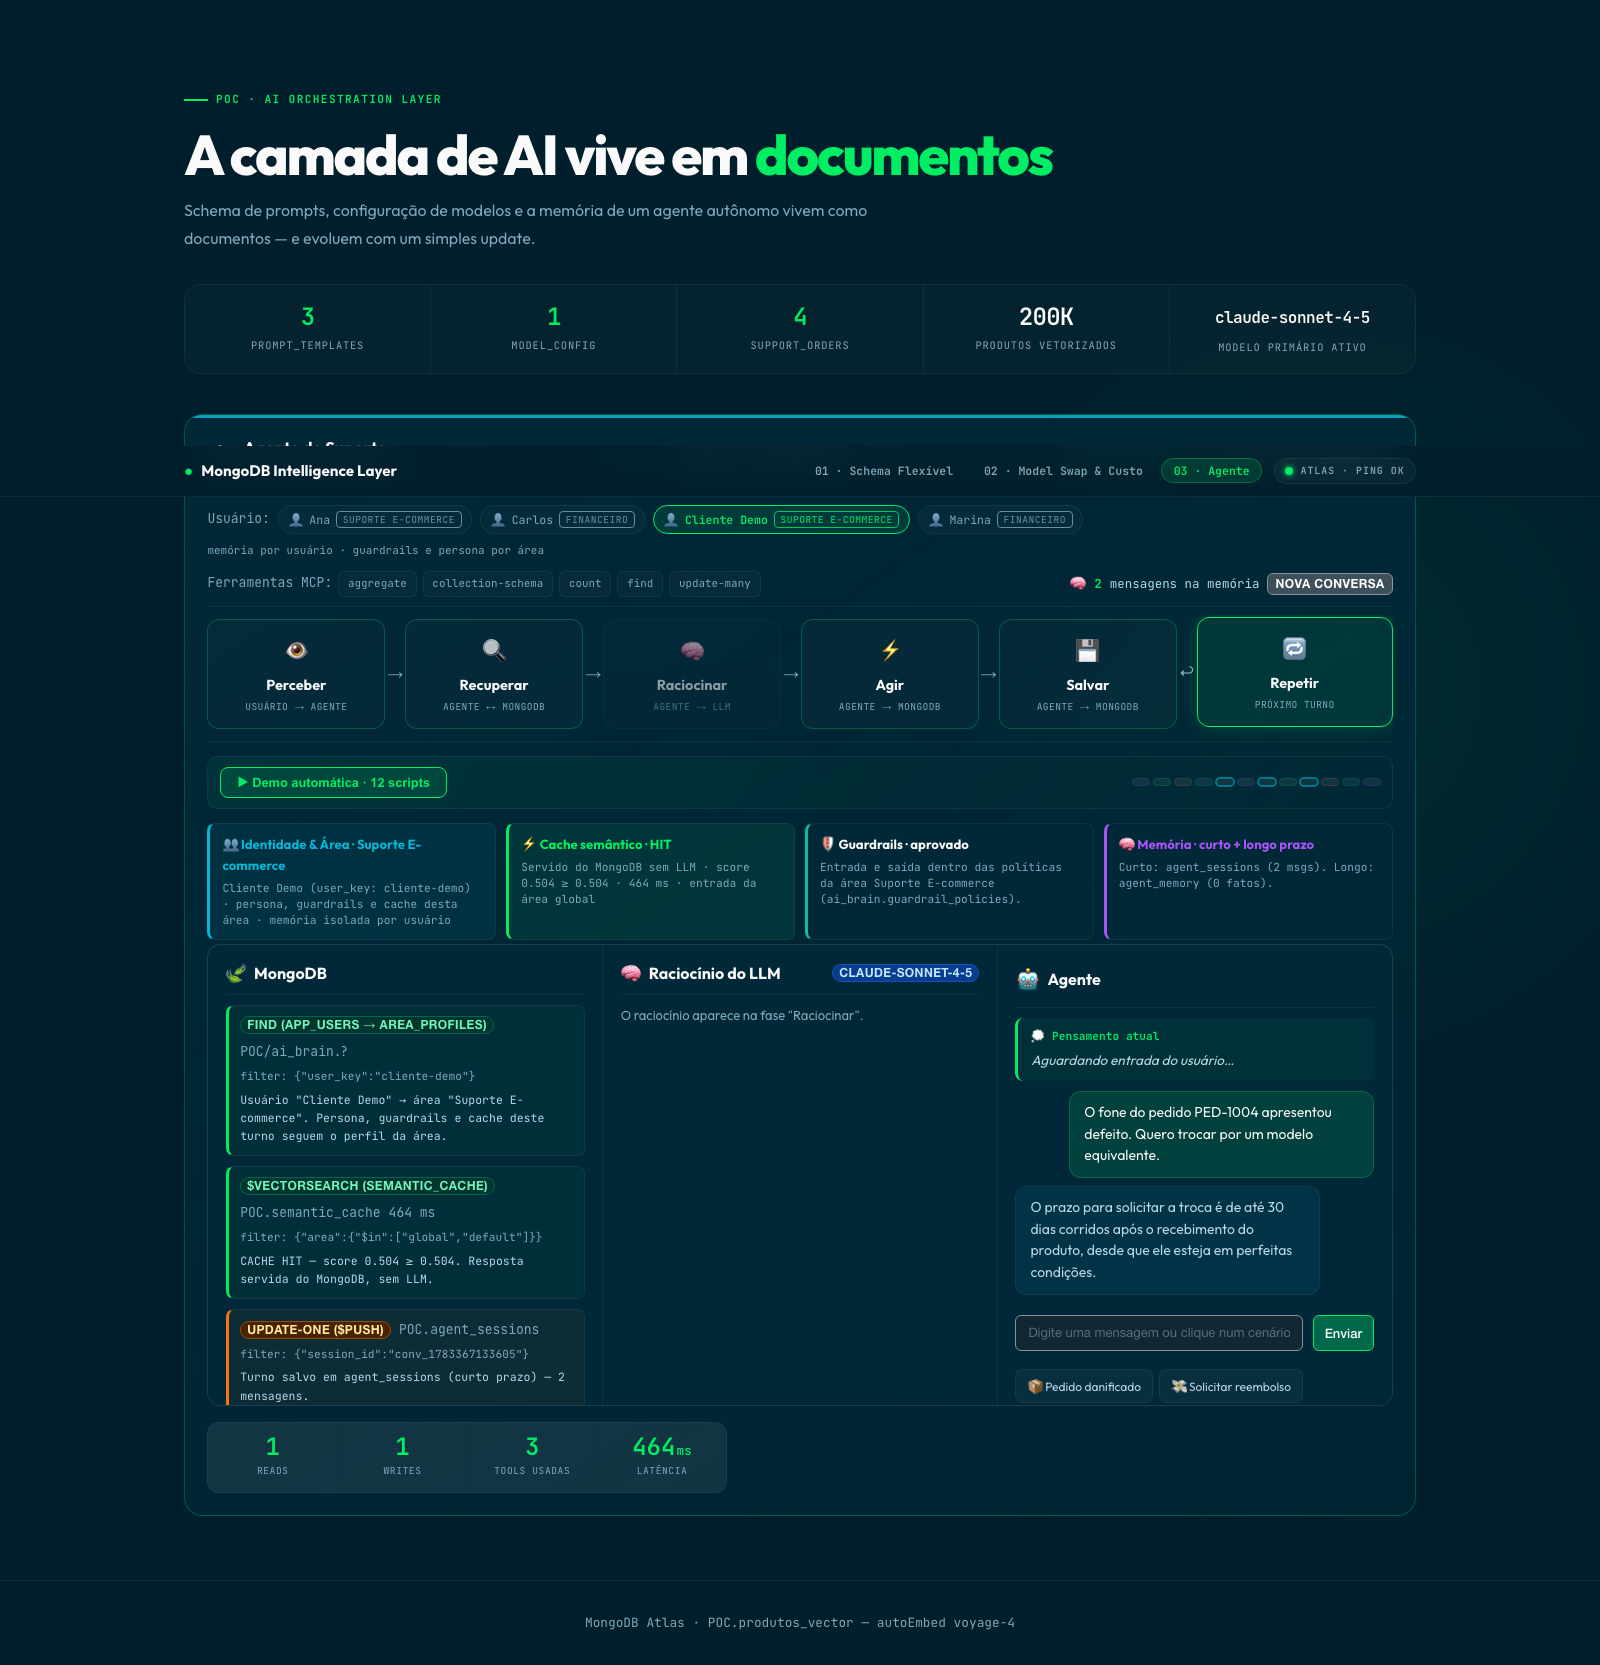
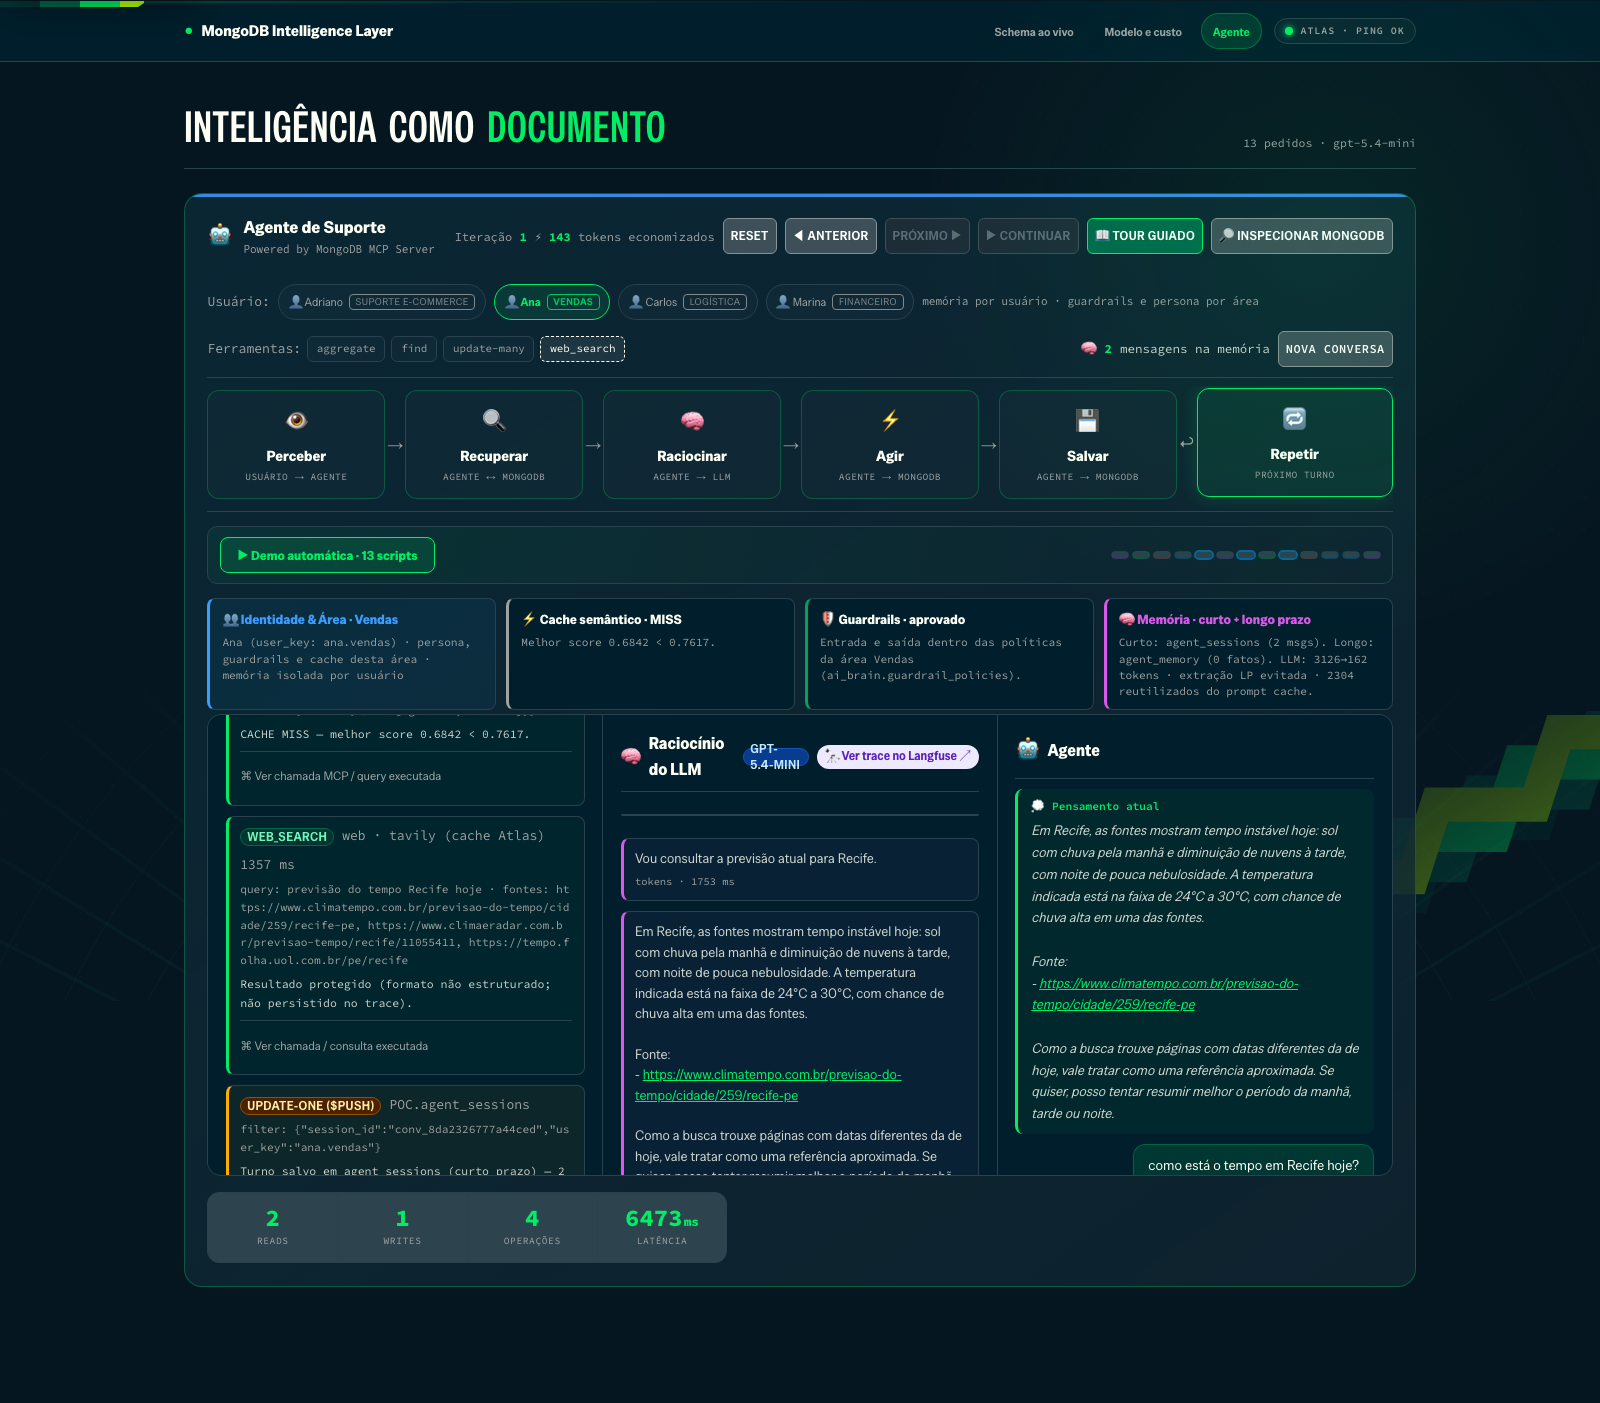
docs(singleagent): CHANGELOG 1.3.1, cache semantico web medido e descartado no ADR-007, briefing e screenshots da aba Agente

diff --git a/docs/adr/ADR-007-ferramenta-externa-busca-web.md b/docs/adr/ADR-007-ferramenta-externa-busca-web.md
@@ -81,10 +81,16 @@ Três fatos medidos guiaram o desenho:
 - O pitch ganha três pontos de MongoDB: ferramenta ligada/desligada por
   `update_one`, crédito do provedor poupado pelo cache com TTL, trilha de auditoria
   consultável por agregação.
-- **Limite conhecido:** o cache web é por match exato da consulta normalizada. O
+- **Limite conhecido:** o cache web é por match exato da consulta normalizada; o
   modelo reescreve a consulta entre turnos ("data Brasil TSE" vs "data oficial
-  TSE") e o cache não casa. Cache semântico (`$vectorSearch`) exige limiar
-  calibrado (`calibrate_thresholds.py`), não escolhido na mão — próximo passo.
+  TSE") e aí o cache não casa.
+- **Cache semântico do resultado web: medido e descartado (2026-10-13).** Similaridade
+  `voyage-4` (o modelo do autoEmbed) entre consultas: a reescrita mais fraca da MESMA
+  pergunta ("cotação do dólar hoje" / "dólar comercial hoje cotação BRL") deu 0,871, enquanto
+  perguntas DIFERENTES deram mais: "primeiro turno" vs "segundo turno" 0,925 e "tempo em Recife
+  hoje" vs "amanhã" 0,914. Nenhum limiar pega a reescrita sem servir a resposta da pergunta
+  vizinha. O cache web fica no match exato da consulta normalizada (que acerta quando o modelo
+  repete a consulta — visto ao vivo no screenshot da Aba 3).
 - **Limite conhecido:** o modelo nem sempre confronta a fonte com o relógio
   (medido: "noite sem nuvens" às 11 h, vindo de uma página de clima desatualizada),
   mesmo com a instrução explícita. É julgamento sobre o dado da fonte, não regra

diff --git a/CHANGELOG.md b/CHANGELOG.md
@@ -1,5 +1,13 @@
 # Changelog
 
+## 1.3.1 (2026-10-13)
+
+- A price cap stated in the message ("até 300 reais", "no máximo R$ 1.200,00") becomes a server-side catalog pre-filter, like the budget stored in memory; the lower of the two wins. A number without a currency marker ("até 2 fones", "até 30 dias") is ignored.
+- Latency: the identity node reads model config, area profile and tool registry in parallel (~1.3 s → ~0.8 s per turn), the cache lookup reads its config and the exact match in parallel, and the backend warms the Atlas connection pool at startup (first turn after a restart ~12 s → ~9 s; warm turns ~5 s).
+- Chat answers render `**bold**` and clickable links (tabs 2 and 3) without `innerHTML`; a web call is labeled as a call, not as MCP.
+- Semantic cache for web results measured and rejected: with `voyage-4`, different questions ("first" vs "second round", "today" vs "tomorrow") score higher than the weakest paraphrase of the same question, so no threshold is safe. Details in ADR-007.
+- README screenshots of the agent tab recaptured with the current UI (web search call, cache hit).
+
 ## 1.3.0 (2026-10-13)
 
 - The agent answers questions outside the store's domain through a `web_search` tool (Tavily), dispatched server-side outside MCP and governed per area by `ai_brain.tool_registry` (fails closed without the document or the key; Finance is off in the seed). The LLM gateway rejects the provider's native web search tools (400), hence our own tool.

diff --git a/docs/briefing/ui-flows.md b/docs/briefing/ui-flows.md
@@ -44,6 +44,8 @@ Badge da coluna MongoDB mostra o **estágio** (`$vectorSearch` / `$graphLookup`)
 
 Linha "Ferramentas:" (antes "Ferramentas MCP:"): pílulas das ferramentas MCP mais `web_search`, tracejada (`kind: "external"`), quando `ai_brain.tool_registry` a liga para a área default (`GET /api/agent/tools`; a decisão real é por área, no turno). Uma chamada web aparece na coluna de operações com o alvo `web · tavily` (ou `web · tavily (cache Atlas)` quando veio do cache), a consulta e as fontes; `date_diff` aparece como `cálculo local`.
 
+Respostas do LLM (chat das abas 2 e 3, "Pensamento atual" e coluna de raciocínio) passam por `components/RichText.jsx` (`src/richText.js`): `**negrito**` vira `<strong>` e URL vira link, como segmentos de texto — nunca `innerHTML`, porque o texto pode citar página web.
+
 Estados de UI relevantes em `Agent.jsx` (via `useState`): `scenarios` (chips por área), `tools` (ferramentas disponíveis nesta sessão), `users`, `liveStatus` (passo em andamento durante streaming, em vez de spinner genérico), `playlist`/`demo` (auto-demo), `tokensSaved` (contador de tokens evitados por cache hit), `showInspector` (painel de inspeção cache/memória/guardrail).
 
 ## Fluxo do usuário na aba Agente
